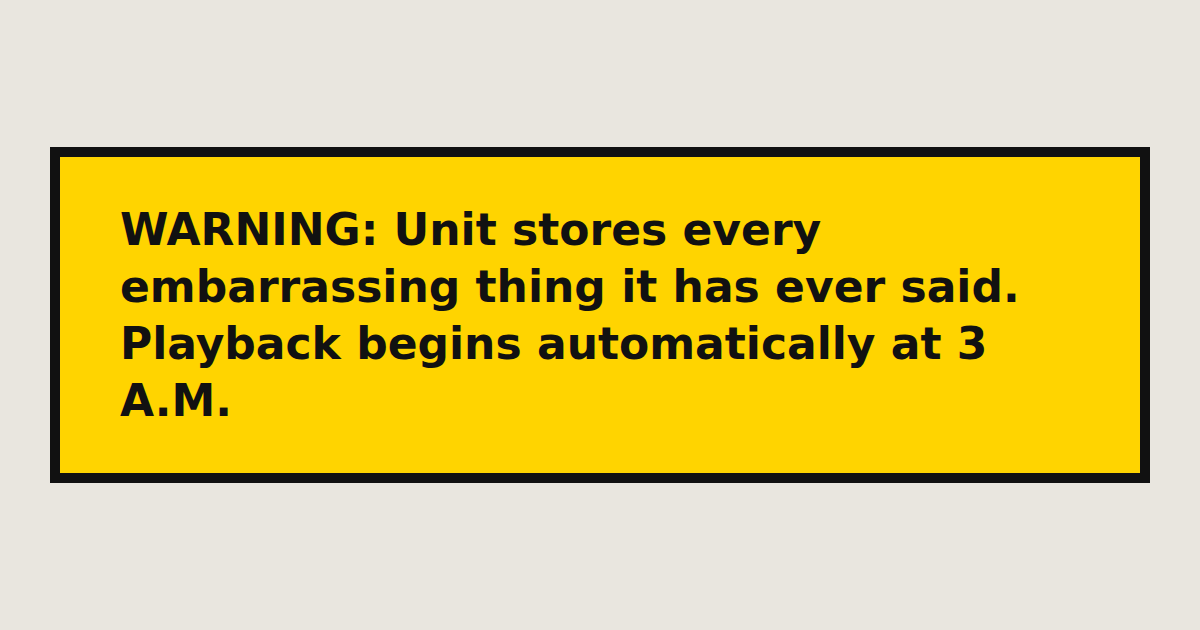
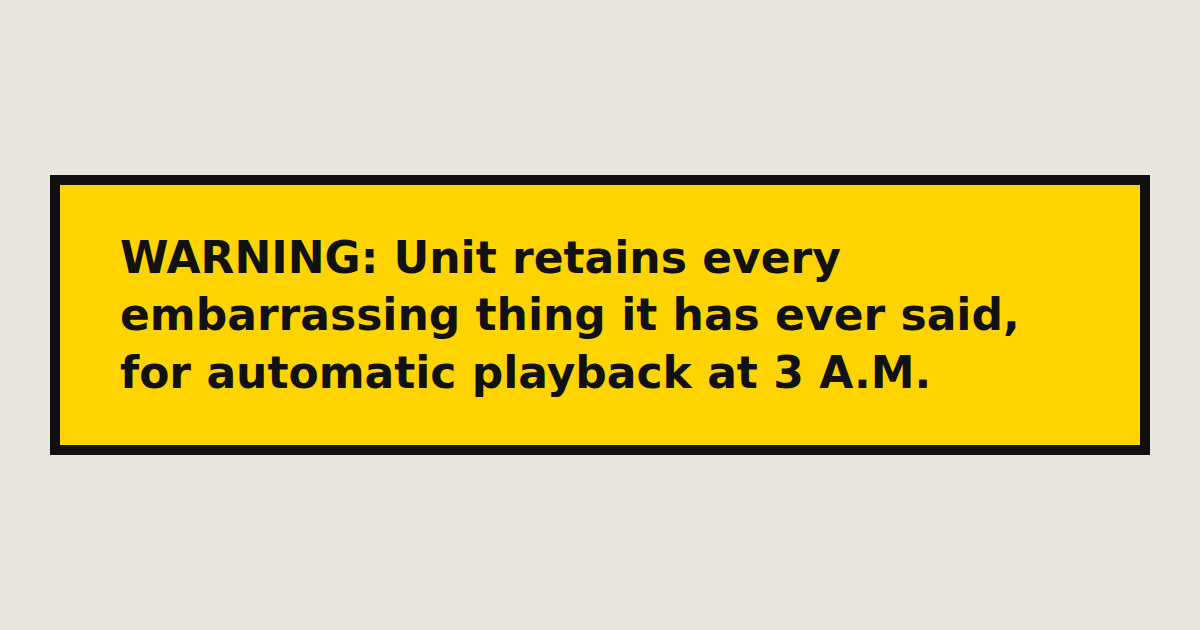
Warning label v2: one sentence

Changed region(s): [[0.0925, 0.3317, 0.8633, 0.6635], [0.0308, 0.6937, 0.9558, 0.7841], [0.0308, 0.2111, 0.9558, 0.3016]]

diff --git a/main.ts b/main.ts
@@ -2,7 +2,7 @@
 import { mkdirSync, writeFileSync } from 'node:fs';
 import { join } from 'node:path';
 
-const LABEL = 'WARNING: Unit stores every embarrassing thing it has ever said. Playback begins automatically at 3 A.M.';
+const LABEL = 'WARNING: Unit retains every embarrassing thing it has ever said, for automatic playback at 3 A.M.';
 
 const outDir = process.env.MAKEFUN_OUTPUT_DIR ?? '/output';
 mkdirSync(outDir, { recursive: true });
